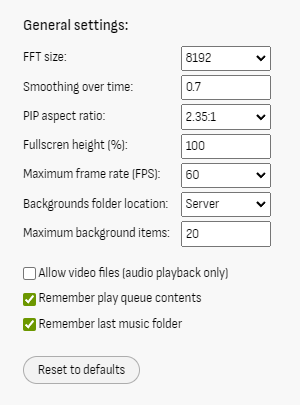
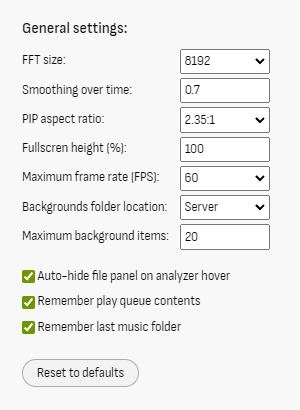
Update documentation.

diff --git a/docs/index.html b/docs/index.html
@@ -2,15 +2,15 @@
 <html lang="en">
 <head>
 	<meta charset="UTF-8">
-	<title>audioMotion.js</title>
+	<title>audioMotion</title>
 	<meta http-equiv="X-UA-Compatible" content="IE=edge,chrome=1" />
-	<meta name="description" content="High-resolution real-time spectrum analyzer and music player written in JavaScript">
+	<meta name="description" content="High-resolution real-time spectrum analyzer and media player">
 	<meta name="viewport" content="width=device-width, user-scalable=no, initial-scale=1.0, maximum-scale=1.0, minimum-scale=1.0">
-	<meta property="og:url" content="https://audiomotion.me">
+	<meta property="og:url" content="https://audiomotion.app">
 	<meta property="og:title" content="audioMotion">
-	<meta property="og:image" content="https://audiomotion.me/img/audioMotion-header.png">
+	<meta property="og:image" content="https://audiomotion.app/docs/img/audioMotion-header.png">
 	<meta property="og:site_name" content="audioMotion">
-	<meta property="og:description" content="High-resolution real-time audio spectrum analyzer and music player">
+	<meta property="og:description" content="High-resolution real-time audio spectrum analyzer and media player">
 	<meta property="og:type" content="website">
 	<meta name="twitter:card" content="summary_large_image">
 	<meta name="twitter:site" content="@HenriqueVianna">

diff --git a/docs/users-manual.md b/docs/users-manual.md
@@ -25,6 +25,8 @@ If you're using headphones you can safely turn the Speakers on to listen to the 
 If your sound card supports *Stereo mix* mode, this option may be listed as an input device when you set the Source to MIC.
 The *Stereo mix* input allows audioMotion to read audio generated by any program running in your PC.
 
+Source and speakers settings will be automatically restored next time you open **audioMotion**.
+
 ## Player controls
 
 | button | action |
@@ -46,7 +48,7 @@ Hover the mouse over the Balance and Volume knobs and use the **mouse wheel** to
 
 Balance can also be adjusted with **Shift** + **Left** and **Right** arrow keys, and Volume with the **Up** and **Down** arrow keys.
 
-Your volume and balance settings will be automatically restored next time you open **audioMotion**.
+Balance and volume settings will be automatically restored next time you open **audioMotion**.
 
 ## File explorer and play queue
 
@@ -443,9 +445,11 @@ Loading backgrounds from the local device requires support for the *File System 
 
 **Maximum background items** controls the maximum number of media files that can be directly selected in the [Background](#background) setting.
 
-**Remember play queue contents** - whether or not to automatically restore the contents of the play queue the next time you open audioMotion.
+**Auto-hide file panel on analyzer hover** - check to automatically hide the file explorer / play queue panel, when you move the mouse over the analyzer.
 
-**Remember last music folder** - whether or not to start the file explorer in the last previously used folder the next time you open audioMotion.
+**Remember play queue contents** - check to automatically restore the contents of the play queue the next time you open audioMotion.
+
+**Remember last music folder** - check to start the file explorer in the last previously used folder the next time you open audioMotion.
 
 The **Reset to defaults** button will reset all settings above to their default values.
 

diff --git a/docs/README.md b/docs/README.md
@@ -25,17 +25,13 @@
 
 Click the button below to open the web app:
 
-> [![Button Icon]][Link]
-
-[Link]: https://audiomotion.app 'click to open web app'
-
-[Button Icon]: https://img.shields.io/badge/audioMotion.app-ff3e37?style=for-the-badge&logoColor=white&logo=Soundcharts
+<a href="https://audiomotion.app" target="_blank"><img src="https://img.shields.io/badge/audioMotion.app-ff3e37?style=flat&logoColor=white&logo=Soundcharts" height="48"></a>
 
 **Use a Chromium-based browser to be able to play media files from your hard drive.**<br>
 Works on Chrome, Opera and Edge by default. On Brave you'll need to enable it in `chrome://flags/#file-system-access-api`.
 
-The app also includes a few server-hosted songs and some online radio streams ([credits here](#resources-used-in-the-demo-site)).<br>
-Click the [**Switch to Server**](users-manual.md#file-explorer-and-play-queue) button to switch to server mode.
+If you don't have any music files at hand, the app also includes a few songs and some online radio streams.<br>
+Click the [**Switch to Server**](users-manual.md#file-explorer-and-play-queue) button to browse server-hosted content.
 
 Also check out our [**YouTube channel**](https://youtube.com/@audioMotionJS) for some cool songs visualized with audioMotion!
 

diff --git a/README.md b/README.md
@@ -1,6 +1,6 @@
 ![audioMotion-header](docs/img/audioMotion-header.png)
 
-**audioMotion** is a high-resolution real-time audio spectrum analyzer and full-featured music player that lets you **see your music!** ♪♫🤩<br>
+**audioMotion** is a media player and high-resolution real-time audio spectrum analyzer that allows you to **SEE your music!** ♪♫🤩<br>
 It is completely free, open-source software, created out of my passion for the graphic spectrum analyzers of hi-fi systems from the 1980s.
 
 [![GitHub release](https://img.shields.io/github/release/hvianna/audioMotion.js.svg)](https://github.com/hvianna/audioMotion.js/releases/latest)
